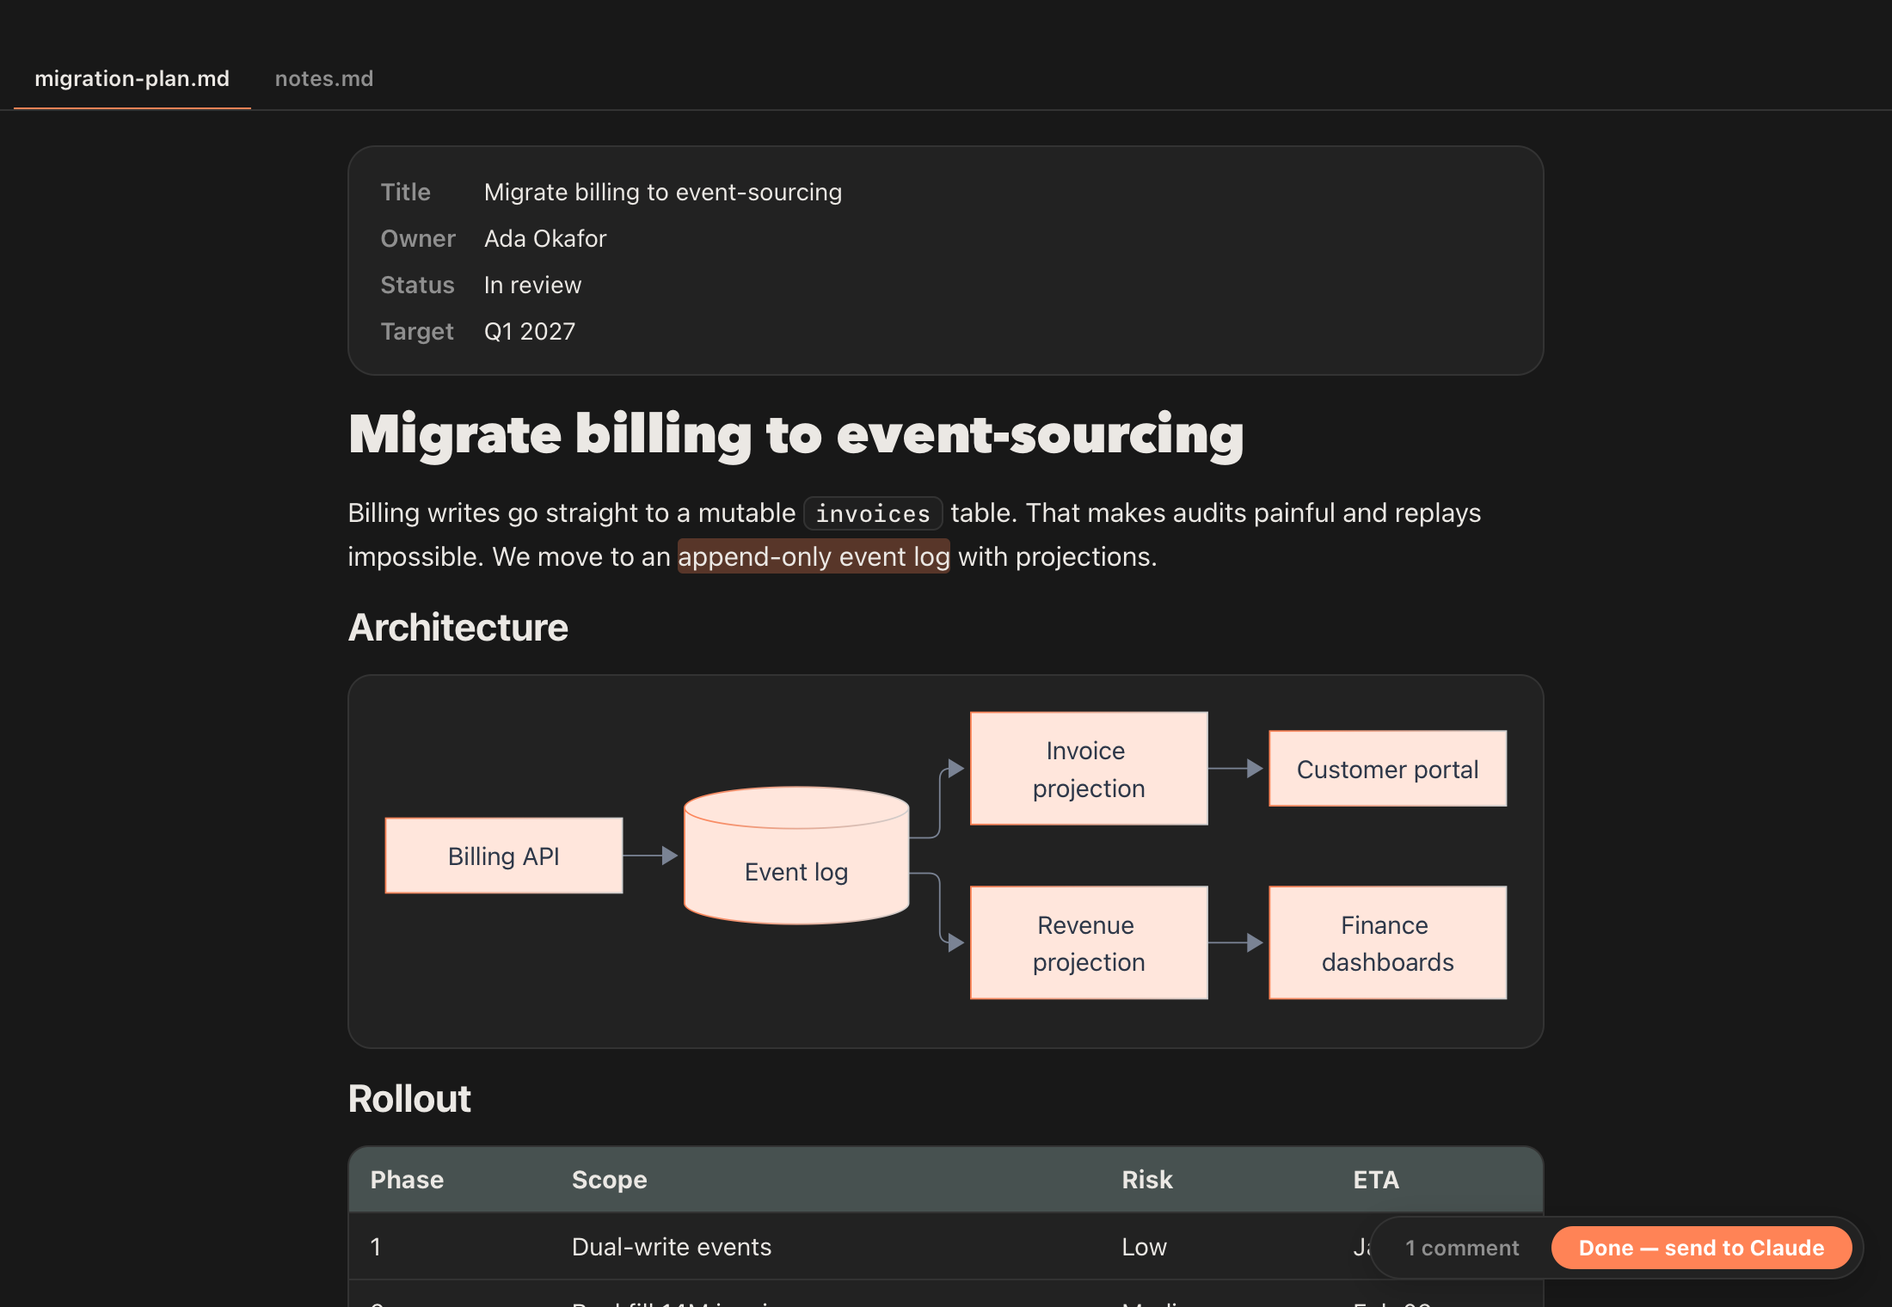
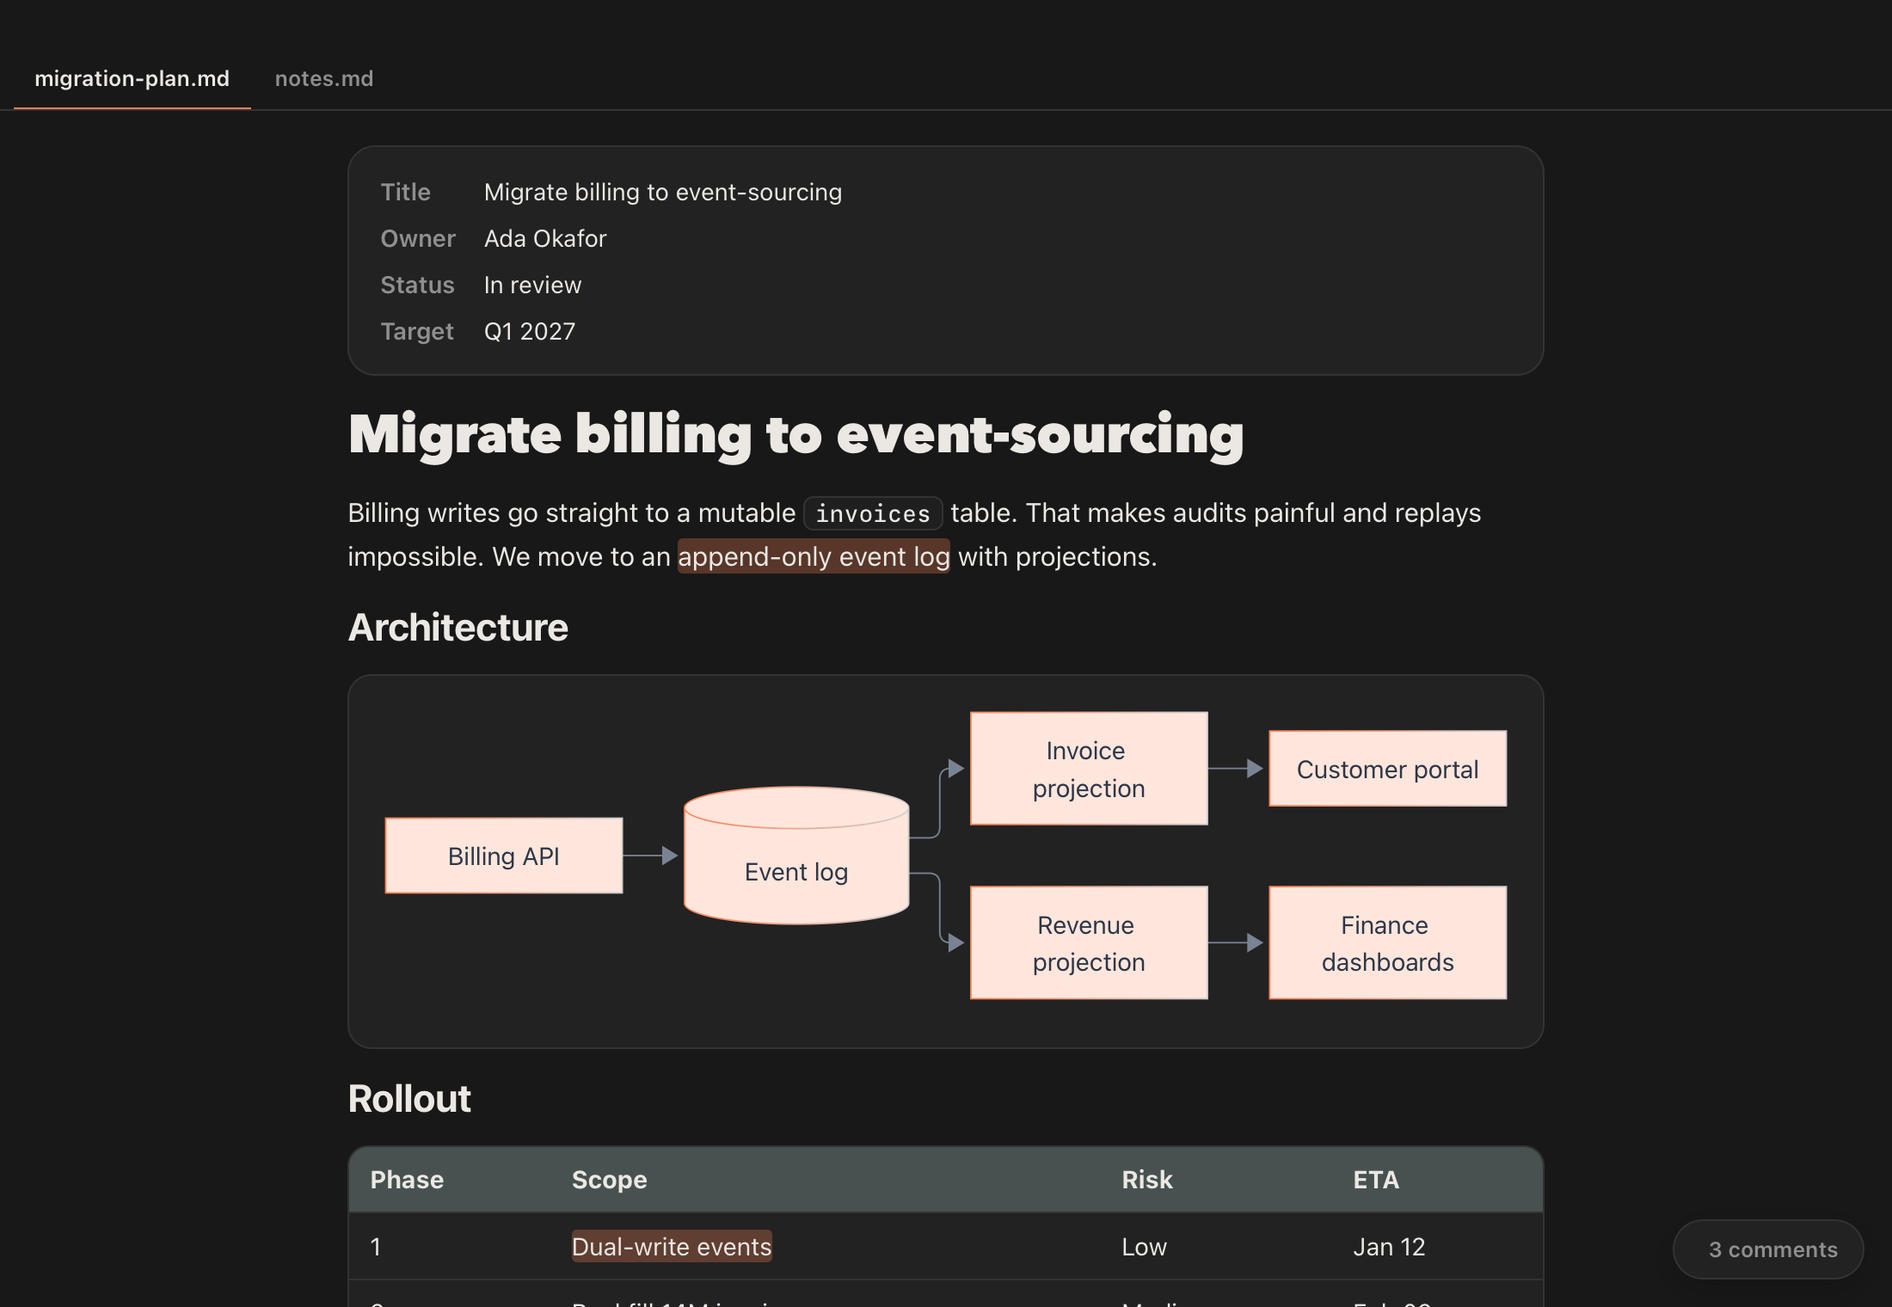
Comments sidebar (⌘⇧C), optional local signing config, refreshed README screenshots

Changed region(s): [[0.7418, 0.9276, 0.9891, 0.9895], [0.2782, 0.9276, 0.4018, 0.9895]]

diff --git a/Resources/web/comments.js b/Resources/web/comments.js
@@ -50,8 +50,10 @@ const C = (() => {
   const btn = U.el('button', { id: 'cbtn', hidden: true }, '💬 Comment');
   const pop = U.el('div', { id: 'cpop', hidden: true });
   const barEl = U.el('div', { id: 'cbar', hidden: true });
-  const list = U.el('div', { id: 'clist', hidden: true });
-  document.body.append(btn, pop, barEl, list);
+  const side = document.getElementById('csb');
+  document.body.append(btn, pop, barEl);
+  const KEY = 'lantern.commentsSidebar';
+  let open = false; try { open = localStorage.getItem(KEY) === '1'; } catch (e) {}
 
   function selection() {
     const sel = getSelection(), doc = document.getElementById('docin');
@@ -79,14 +81,17 @@ const C = (() => {
   const hideAll = () => { btn.hidden = true; pop.hidden = true; pending = null; };
 
   document.addEventListener('mouseup', e => {
-    if (e.target.closest('#cbtn, #cpop, #cbar, #clist')) return;
+    if (e.target.closest('#cbtn, #cpop, #cbar, #csb')) return;
     setTimeout(() => {
       const s = selection();
       if (s) { pending = s; place(btn, s.rect, false); pop.hidden = true; }
       else if (!e.target.closest('mark.cmt')) hideAll();
     }, 0);
   });
-  document.addEventListener('keydown', e => { if (e.key === 'Escape') { hideAll(); list.hidden = true; } });
+  document.addEventListener('keydown', e => {
+    if (e.key === 'Escape') { if (!btn.hidden || !pop.hidden) hideAll(); else if (open) toggle(false); }
+    else if (e.metaKey && e.shiftKey && e.code === 'KeyC') { e.preventDefault(); toggle(); }
+  });
   document.getElementById('doc').addEventListener('scroll', () => { btn.hidden = true; if (!pop.hidden) pop.hidden = true; }, { passive: true });
   btn.addEventListener('mousedown', e => e.preventDefault());   // keep the selection alive
   btn.addEventListener('click', () => { if (pending) { btn.hidden = true; editor(pending, null); } });
@@ -121,30 +126,98 @@ const C = (() => {
     place(pop, ctx.rect, true); ta.focus();
   }
 
-  // ───────── bottom bar: count, list, Done ─────────
+  // ───────── sidebar + count pill ─────────
+  const docEl = () => document.getElementById('doc');
+
+  // Opening/closing changes the doc width; keep the block at the top of the viewport where it was.
+  function toggle(force) {
+    const want = force === undefined ? !open : force; if (want === open) return;
+    const d = docEl(), top = d.getBoundingClientRect().top;
+    const anchor = [...document.querySelectorAll('#docin .blk')].find(b => b.getBoundingClientRect().bottom > top + 4);
+    const off = anchor ? anchor.getBoundingClientRect().top - top : 0;
+    open = want; try { localStorage.setItem(KEY, open ? '1' : '0'); } catch (e) {}
+    hideAll(); bar();
+    if (anchor) requestAnimationFrame(() => { d.scrollTop += anchor.getBoundingClientRect().top - docEl().getBoundingClientRect().top - off; });
+  }
+
   function bar() {
     const p = cur(), n = p ? p.comments.length : 0;
-    barEl.hidden = !n; if (!n) { list.hidden = true; return; }
-    const count = U.el('button', { class: 'cx', title: 'Show all comments' }, n + (n === 1 ? ' comment' : ' comments'));
-    count.addEventListener('click', () => { list.hidden = !list.hidden; if (!list.hidden) fillList(); });
-    const done = U.el('button', { class: 'ask-send' + (p.submitted ? ' done' : '') }, p.submitted ? 'Done ✓ Claude can read them' : 'Done — send to Claude');
-    done.addEventListener('click', () => save(p, true));
-    barEl.replaceChildren(count, done);
-    if (!list.hidden) fillList();
+    side.hidden = !open;
+    barEl.hidden = open || !n;
+    if (!barEl.hidden) {
+      const count = U.el('button', { class: 'cx', title: 'Show all comments (⌘⇧C)' }, n + (n === 1 ? ' comment' : ' comments'));
+      count.addEventListener('click', () => toggle(true));
+      barEl.replaceChildren(count);
+    }
+    if (open) renderSide();
   }
-  function fillList() {
-    const p = cur(); if (!p) return;
-    list.replaceChildren(...p.comments.map(c => {
-      const row = U.el('div', { class: 'crow' + (c.detached ? ' gone' : '') },
-        U.el('div', { class: 'cq' }, '“' + (c.quote.length > 90 ? c.quote.slice(0, 90) + '…' : c.quote) + '”' + (c.detached ? ' (text changed)' : '')),
-        U.el('div', {}, c.text));
+
+  const ago = ts => {
+    const s = Math.max(0, Date.now() / 1000 - ts);
+    return s < 60 ? 'just now' : s < 3600 ? Math.floor(s / 60) + 'm ago' : s < 86400 ? Math.floor(s / 3600) + 'h ago' : Math.floor(s / 86400) + 'd ago';
+  };
+  const markOf = c => document.querySelector('mark.cmt[data-id="' + c.id + '"]');
+
+  function renderSide() {
+    const p = cur();
+    const close = U.el('button', { class: 'cx', title: 'Close (Esc)' }, '✕');
+    close.addEventListener('click', () => toggle(false));
+    const head = U.el('div', { class: 'chead' }, 'Comments' + (p && p.comments.length ? ' (' + p.comments.length + ')' : ''), close);
+    const body = U.el('div', { class: 'cbody' });
+    const foot = U.el('div', { class: 'cfoot' });
+    const all = p ? p.comments : [];
+    const placed = all.map(c => ({ c, mk: markOf(c) })).filter(x => x.mk)
+      .sort((a, b) => (a.mk.compareDocumentPosition(b.mk) & Node.DOCUMENT_POSITION_FOLLOWING) ? -1 : 1);
+    const gone = all.filter(c => !markOf(c));
+
+    const row = (c, mk) => {
+      const r = U.el('div', { class: 'crow' + (mk ? '' : ' gone'), 'data-id': c.id },
+        U.el('div', { class: 'cq' }, '“' + (c.quote.length > 90 ? c.quote.slice(0, 90) + '…' : c.quote) + '”' + (mk ? '' : ' (text changed)')),
+        U.el('div', { class: 'ctext', title: 'Click to edit' }, c.text),
+        U.el('div', { class: 'cmeta' }, [c.section, c.ts ? ago(c.ts) : ''].filter(Boolean).join(' · ')));
       const x = U.el('button', { class: 'cx danger', title: 'Delete' }, '✕');
       x.addEventListener('click', e => { e.stopPropagation(); p.comments = p.comments.filter(y => y !== c); save(p); });
-      row.append(x);
-      row.addEventListener('click', () => { const mk = document.querySelector('mark.cmt[data-id="' + c.id + '"]'); if (mk) { mk.scrollIntoView({ block: 'center', behavior: 'smooth' }); mk.classList.add('pulse'); setTimeout(() => mk.classList.remove('pulse'), 1500); } });
-      return row;
-    }));
+      r.append(x);
+      r.querySelector('.ctext').addEventListener('click', e => { e.stopPropagation(); editor({ rect: r.getBoundingClientRect() }, c); });
+      r.addEventListener('click', () => {
+        const m = markOf(c); if (!m) return;
+        m.scrollIntoView({ block: 'center', behavior: 'smooth' });
+        m.classList.add('pulse'); setTimeout(() => m.classList.remove('pulse'), 1500);
+        setActive(c.id, false);
+      });
+      return r;
+    };
+    if (!all.length) body.append(U.el('div', { class: 'cempty' }, 'Select text in the plan to leave a comment.'));
+    placed.forEach(x => body.append(row(x.c, x.mk)));
+    if (gone.length) { body.append(U.el('div', { class: 'cgap' }, 'Text changed')); gone.forEach(c => body.append(row(c, null))); }
+    if (all.length) {
+      const done = U.el('button', { class: 'ask-send' + (p.submitted ? ' done' : '') }, p.submitted ? 'Done ✓ Claude can read them' : 'Done — send to Claude');
+      done.addEventListener('click', () => save(p, true));
+      foot.append(done);
+    }
+    foot.hidden = !all.length;
+    side.replaceChildren(head, body, foot);
+    spy();
   }
+
+  // scroll-spy: highlight the row whose mark is the first one at or below the top of the doc
+  let activeId = null;
+  function setActive(id, reveal) {
+    activeId = id;
+    side.querySelectorAll('.crow').forEach(r => {
+      const on = r.dataset.id === id; r.classList.toggle('active', on);
+      if (on && reveal) r.scrollIntoView({ block: 'nearest' });
+    });
+  }
+  function spy() {
+    if (!open) return;
+    const top = docEl().getBoundingClientRect().top + 8;
+    const marks = [...document.querySelectorAll('#docin mark.cmt')];
+    const hit = marks.find(m => m.getBoundingClientRect().bottom > top) || marks[marks.length - 1];
+    setActive(hit ? hit.dataset.id : null, true);
+  }
+  let spyQueued = false;
+  docEl().addEventListener('scroll', () => { if (spyQueued) return; spyQueued = true; requestAnimationFrame(() => { spyQueued = false; spy(); }); }, { passive: true });
 
   return { highlight, bar };
 })();

diff --git a/Resources/web/style.css b/Resources/web/style.css
@@ -56,7 +56,8 @@ input[type=checkbox]:checked::after { content: ''; position: absolute; left: 4px
 /* layout */
 body { display: flex; flex-direction: column; }
 [hidden] { display: none !important; }
-#doc { flex: 1; min-height: 0; overflow-y: auto; overflow-x: hidden; }
+#wrap { flex: 1; min-height: 0; display: flex; position: relative; }
+#doc { flex: 1; min-width: 0; min-height: 0; overflow-y: auto; overflow-x: hidden; }
 #docin { max-width: 760px; margin: 0 auto; padding: 20px 32px 80px; }
 #tabs { flex: none; display: flex; gap: 2px; padding: 0 8px; overflow-x: auto; overflow-y: hidden; scrollbar-width: none; border-bottom: 1px solid var(--border); }
 #tabs::-webkit-scrollbar { display: none; }
@@ -96,17 +97,29 @@ details[open] > summary { margin-bottom: .5em; }
 /* highlight comments */
 mark.cmt { background: color-mix(in srgb, var(--coral) 28%, transparent); color: inherit; border-radius: 3px; cursor: pointer; padding: 1px 0; }
 mark.cmt:hover, mark.cmt.pulse { background: color-mix(in srgb, var(--coral) 45%, transparent); }
-#cbtn, #cpop, #cbar, #clist { position: fixed; z-index: 70; background: var(--card); border: 1px solid var(--border); box-shadow: 0 6px 24px rgba(0,0,0,.18); font: 600 12.5px var(--body); color: var(--text); }
+#cbtn, #cpop, #cbar { position: fixed; z-index: 70; background: var(--card); border: 1px solid var(--border); box-shadow: 0 6px 24px rgba(0,0,0,.18); font: 600 12.5px var(--body); color: var(--text); }
 #cbtn { border-radius: 999px; padding: 5px 12px; cursor: pointer; }
 #cpop { width: 340px; border-radius: 14px; padding: 10px 12px 12px; font-weight: 400; }
 .cq { color: var(--muted); font-size: 12px; font-weight: 400; margin-bottom: 6px; overflow-wrap: anywhere; }
 #cbar { right: 16px; bottom: 16px; border-radius: 999px; padding: 5px 6px 5px 12px; display: flex; align-items: center; gap: 10px; }
-#cbar[hidden], #cbtn[hidden], #cpop[hidden], #clist[hidden] { display: none !important; }
-#clist { right: 16px; bottom: 58px; width: 320px; max-height: 50vh; overflow-y: auto; border-radius: 14px; padding: 6px; font-weight: 400; }
-.crow { position: relative; padding: 8px 28px 8px 10px; border-radius: 10px; cursor: pointer; font-size: 13px; }
+#cbar[hidden], #cbtn[hidden], #cpop[hidden] { display: none !important; }
+/* comments sidebar */
+#csb { flex: none; width: 320px; display: flex; flex-direction: column; background: var(--card); border-left: 1px solid var(--border); font-size: 13px; }
+#csb .chead { flex: none; display: flex; align-items: center; justify-content: space-between; padding: 8px 8px 8px 14px; border-bottom: 1px solid var(--border); font-weight: 700; font-size: 12.5px; }
+#csb .cbody { flex: 1; min-height: 0; overflow-y: auto; padding: 6px; }
+#csb .cfoot { flex: none; display: flex; padding: 10px; border-top: 1px solid var(--border); }
+#csb .cfoot .ask-send { margin: 0; width: 100%; padding: 7px 16px; }
+#csb .cempty { color: var(--muted); text-align: center; padding: 28px 16px; }
+#csb .cgap { color: var(--muted); font-size: 11px; font-weight: 700; text-transform: uppercase; letter-spacing: .04em; padding: 10px 10px 4px; }
+.crow { position: relative; padding: 8px 28px 8px 12px; border-radius: 10px; cursor: pointer; border-left: 3px solid transparent; }
 .crow:hover { background: var(--bg); }
-.crow.gone .cq { color: var(--coral); }
+.crow.active { border-left-color: var(--coral); background: color-mix(in srgb, var(--coral) 10%, transparent); }
+.crow.gone { opacity: .6; } .crow.gone .cq { color: var(--coral); }
+.crow .ctext { cursor: text; }
+.crow .cmeta { color: var(--muted); font-size: 11px; margin-top: 3px; }
 .crow .cx { position: absolute; top: 6px; right: 4px; }
+@media (max-width: 900px) { #csb { position: absolute; top: 0; right: 0; bottom: 0; z-index: 65; box-shadow: -8px 0 24px rgba(0,0,0,.14); } }
+
 .cx { border: 0; background: none; color: var(--muted); font: 600 12.5px var(--body); cursor: pointer; padding: 4px 8px; border-radius: 999px; }
 .cx:hover { color: var(--text); } .cx.danger:hover { color: #d33; }
 #cpop .ask-row .cx:first-child.danger { margin-right: auto; }

diff --git a/Resources/web/index.html b/Resources/web/index.html
@@ -9,7 +9,7 @@
 </head>
 <body>
 <nav id="tabs" hidden></nav>
-<main id="doc"><div id="docin"></div></main>
+<div id="wrap"><main id="doc"><div id="docin"></div></main><aside id="csb" hidden></aside></div>
 <div id="toast"></div>
 <script src="vendor/marked.min.js"></script>
 <script src="vendor/purify.min.js"></script>

diff --git a/docs/plans/comments-sidebar.md b/docs/plans/comments-sidebar.md
@@ -1,0 +1,69 @@
+# Comments sidebar
+
+A docked panel on the right that lists every comment on the open plan. Click a row and the document scrolls to the highlight. It replaces today's small floating list.
+
+## What exists today
+
+- Floating list `#clist`, opened from the "N comments" pill (`Resources/web/comments.js:125-150`, styled at `Resources/web/style.css:105`).
+- Rows already scroll to and pulse the highlight (`comments.js:145`) and have a delete button (`comments.js:142`).
+- Layout is a column: tabs, then `#doc` (`style.css:57-60`), so there is no room for a side panel yet.
+
+So this is mostly **layout + a better list**, not new data plumbing.
+
+## Behaviour
+
+| Area | Decision |
+|------|----------|
+| Open / close | Toggle with the "N comments" pill, **⌘⇧C**, or **Esc**. Remembered per window across launches. |
+| Layout | Doc shrinks, sidebar docks right at 320px. Below ~900px wide it overlays instead of squeezing the doc. |
+| Rows | Quote (clamped), comment text, section heading, relative time. Ordered **by position in the doc**, not creation time. |
+| Click a row | Scroll to the highlight, pulse it, mark the row active. |
+| Scroll the doc | The row for the highlight nearest the top of the viewport gets an active style (scroll-spy). |
+| Edit / delete | Click the text to edit in place, ✕ to delete. Same save path as today. |
+| Detached comments | Quote no longer found: dimmed, "text changed" badge, grouped at the bottom. |
+| Footer | **Done — send to Claude** moves here. The floating pill keeps only the count. |
+| Empty state | "Select text in the plan to leave a comment." |
+
+## Mockup
+
+```
+┌───────────────────────────────────────┬──────────────────┐
+│ plan.md   notes.md                    │ Comments (3)   ✕ │
+├───────────────────────────────────────┤──────────────────┤
+│ # Migrate billing                     │ ▌“append-only…”  │
+│ We move to an [append-only event log] │ ▌ Keep snapshots │
+│ with projections.                     │ ▌ §Migrate       │
+│                                       │                  │
+│ ## Rollout                            │  “Cut reads…”    │
+│ ...                                   │   Behind a flag? │
+│                                       │──────────────────│
+│                                       │ [Done — send]    │
+└───────────────────────────────────────┴──────────────────┘
+```
+
+## Implementation steps
+
+1. **Layout** (`index.html`, `style.css`). Wrap `#doc` and a new `<aside id="csb">` in a flex row. Add a `body.csb-open` class that sets the sidebar width. Keep `#doc` as the scroll container so `scrollTop` handling in `app.js` stays valid.
+2. **Sidebar module** (`comments.js`). Replace `fillList` with `renderSidebar()`. Sort by the DOM position of each `mark.cmt`, using `compareDocumentPosition`. Call it from `bar()` so every existing save, render and tab switch refreshes it for free.
+3. **Scroll-spy** (`comments.js`). On `#doc` scroll, throttled with `requestAnimationFrame`, find the first `mark.cmt` whose rect is below the top edge and set `.active` on its row. Scroll the sidebar to keep that row visible.
+4. **Inline edit.** Reuse `editor()` (`comments.js:97`) but anchor it to the row instead of the highlight.
+5. **Toggle + persistence.** Add the ⌘⇧C shortcut in the keydown handler (`comments.js:89`). Persist open or closed via `localStorage`, or via the existing app state if the web view data store is non-persistent. Check this first.
+6. **Slim the pill.** Pill shows the count and toggles the sidebar. Remove `#clist`.
+7. **Tests** (`scripts/test.sh`, new "comments sidebar" section). Cover: sidebar hidden by default, toggle opens it, rows ordered by doc position, row click scrolls and pulses, delete from the sidebar updates the highlight, detached comment shown dimmed, state survives a re-render. Add a `08-sidebar.png` screenshot.
+8. **Docs.** Add a sidebar screenshot to `docs/demo-shots.sh` output, plus one line in the README.
+
+## Risks
+
+- **Mermaid and wide tables** re-measure when the doc shrinks. Fix: re-run the layout on `ResizeObserver`, which is already likely in place; verify.
+- **Scroll position on toggle** can jump when the doc width changes. Fix: capture the top-most block before toggling and restore it afterwards.
+- **`localStorage` persistence** in `WKWebView` depends on the data store. Fall back to a Swift-side setting if it doesn't stick.
+
+## Open questions
+
+```answer q1
+Should the sidebar open automatically the first time you add a comment, or only when you toggle it?
+```
+
+```answer q2
+Should the Done button live in the sidebar footer (my suggestion), or stay in the floating pill?
+```

diff --git a/README.md b/README.md
@@ -12,6 +12,7 @@ Claude writes plans, specs and design docs as `.md`. Reading them as raw text in
 - **Live**: edit the file and the changed blocks glow, without re-opening anything.
 - **Tabs**: open a folder and every `.md` becomes a tab.
 - **Two-way, without touching the file**: Claude can ask you questions inside the doc, and you can highlight any text to comment on it. Replies are stored beside the plan, never in the `.md`.
+- **Comments sidebar**: ⌘⇧C opens every comment in a right-hand panel. Click one to jump to it.
 
 |  |  |
 |---|---|
@@ -24,7 +25,7 @@ Claude writes plans, specs and design docs as `.md`. Reading them as raw text in
     ./scripts/install.sh      # builds, installs /Applications/Lantern.app + ~/.local/bin/lantern, smoke-tests
     claude mcp add --scope user lantern -- ~/.local/bin/lantern mcp
 
-Needs macOS, Xcode and `xcodegen`.
+Needs macOS, Xcode and `xcodegen`. Builds are ad-hoc signed by default. To sign with your own Apple Development cert (so macOS stops re-asking for folder access after every rebuild), copy `Config/Local.xcconfig.example` to `Config/Local.xcconfig` and set your team ID.
 
 ## Use
 
